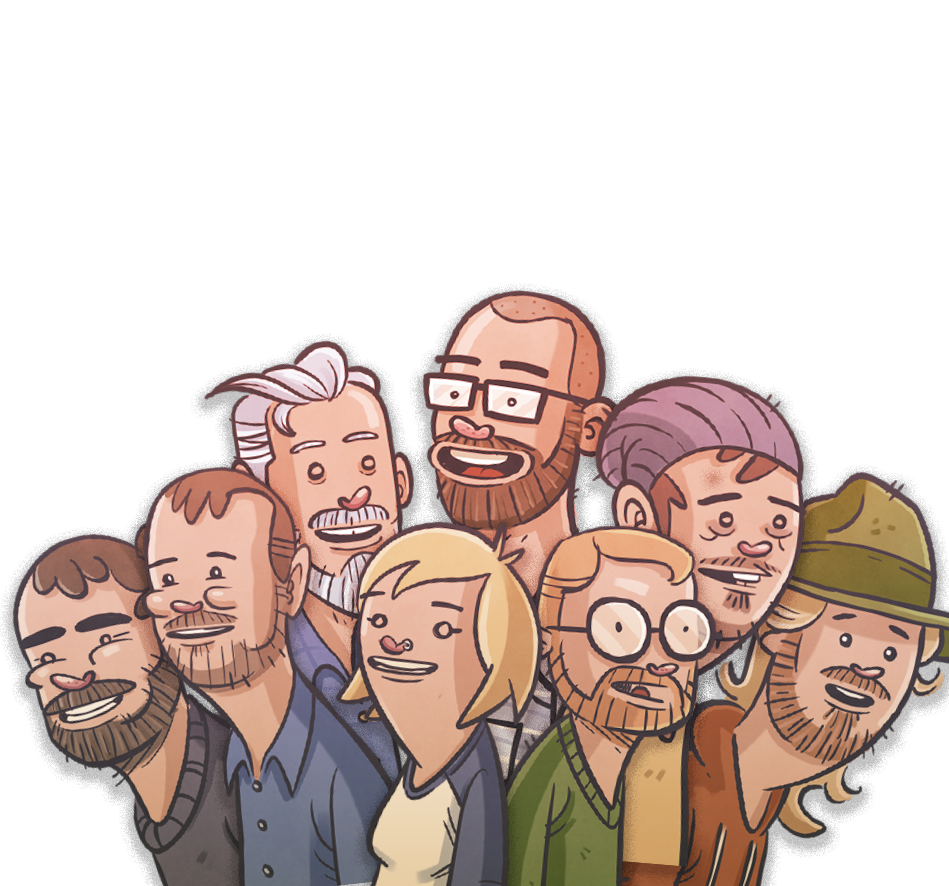
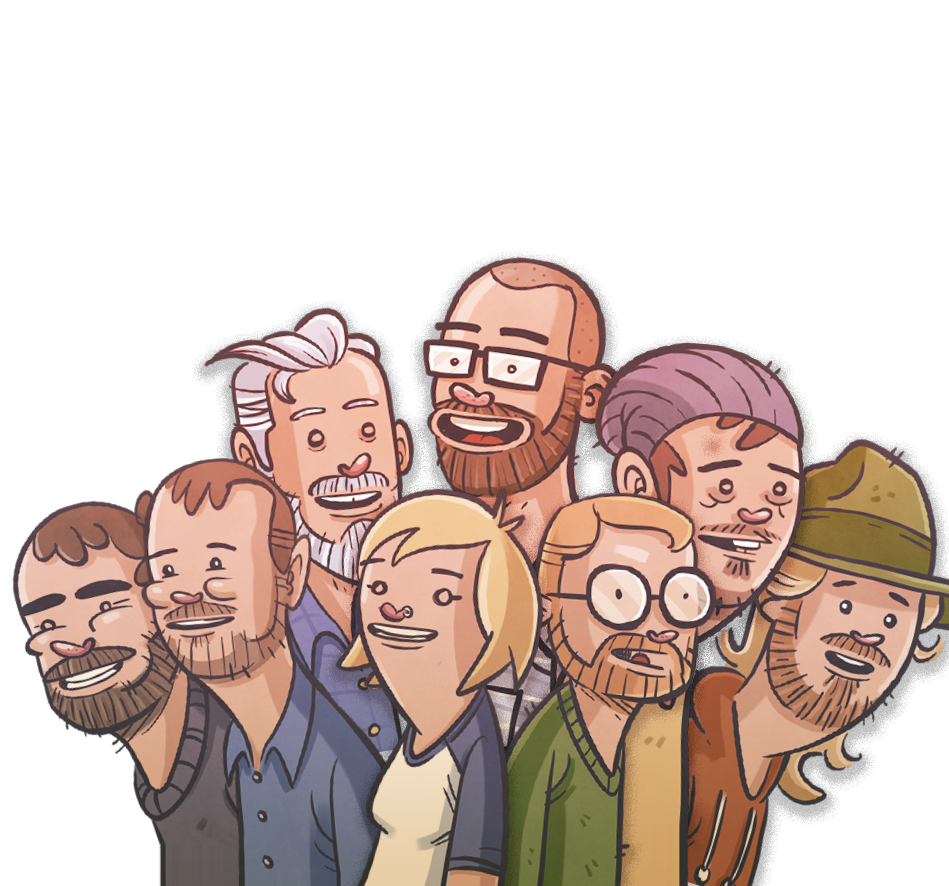
- Fixed clipping on team photo for mobile - Added sharing buttons again

diff --git a/style.css b/style.css
@@ -42,7 +42,7 @@ a {
   border-radius: 10em;
   background: #fff;
   color: #362F2D;
-  font-size: 1.5em;
+  font-size: 1.2em;
   font-weight: bold;
   box-shadow: 0 0.1em 0.2em 0 rgba(0,0,0,0.50);
   transform: scale(1);
@@ -64,6 +64,7 @@ a {
 .panel_intro {
     position: relative;
     background: url('img/hgTeam.png') bottom center no-repeat, linear-gradient(45deg, #735F52 0%, #9C8272 100%) ;
+    background-position: bottom+20em;
     background-size: 100%;
     text-align: center;
 }
@@ -309,11 +310,17 @@ a {
 		width: 100%;
 		padding: 0.2em 0 0.2em 0;
 	}
-	
+
+  .panel_intro {
+      position: relative;
+      background: url('img/hgTeam.png') bottom 4em center no-repeat, linear-gradient(45deg, #735F52 0%, #9C8272 100%);
+      background-size: 100%;
+  }
+
 	.panel_intro .footer {
 		position: fixed;
 		bottom: 0;
-		width: 100%;		
+		width: 100%;
 	}
 
 }
@@ -330,14 +337,14 @@ a {
 		background-image: url('img/iconRotate.png');
 		background-repeat: no-repeat;
     	background-attachment: fixed;
-	    background-position: center center; 		
+	    background-position: center center;
 	    background-size: 140px 140px;
 	}
 
 
 }
-	
-	
+
+
 
 .g_year {
     background-color: black;

diff --git a/index.html b/index.html
@@ -21,7 +21,7 @@
 <body>
 
     <div class="content" id="content">
-	    
+
 
 
         <div class="panel_intro" id="panel_intro">
@@ -32,11 +32,10 @@
             <a id="i_btn_tutorial" class="button">How to play</a>
 
 
-            <!-- div class="share">
-              <h2>Share this</h2>
+            <div class="share">
               <a href="https://twitter.com/intent/tweet?text=Play%20Hyper%20Games%20-%205%20Year%20Reign!" class="shareIcon"><img src="img/iconTwitter.png"></a>
               <a href="#" class="shareIcon"><img src="img/iconFacebook.png"></a>
-            </div-->
+            </div>
 
 
             <div class="footer">
@@ -81,8 +80,8 @@
         <div class="panel_endgame" id="panel_endgame">
 
 	        <div id="e_axes"></div>
-	        
-			<div class="card_image"> 
+
+			<div class="card_image">
 
 				<div class="card_frame">
 					<img id="e_card_image" src="cards/empty.png" />
@@ -107,7 +106,7 @@
     <script type="text/javascript">
         OnLoad();
     </script>
-    
-   
+
+
 </body>
 </html>
